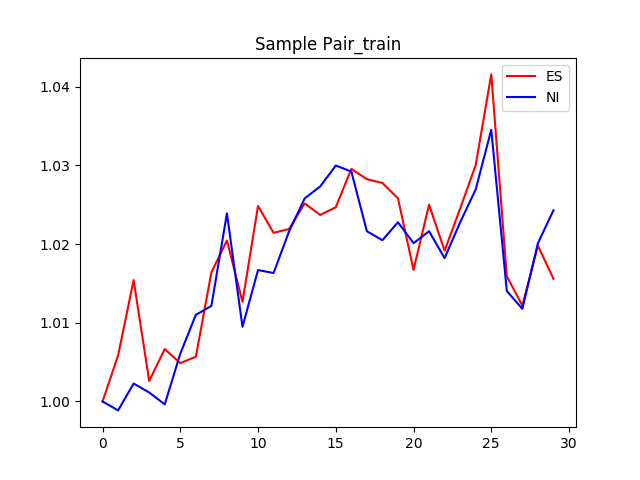
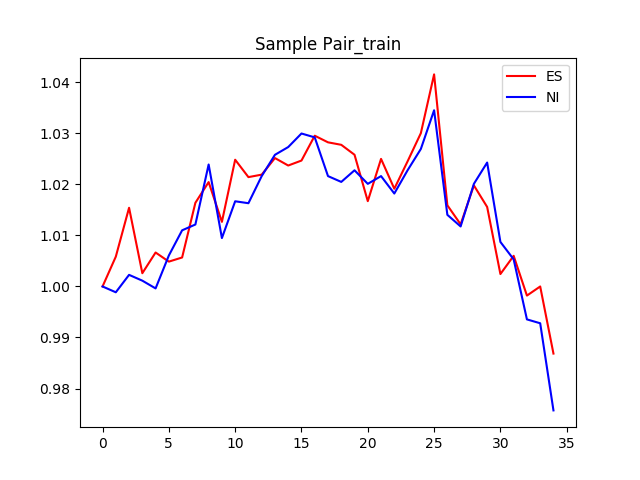
fixed up baseline backtesting, should be accurate now

diff --git a/models/baseline.py b/models/baseline.py
@@ -6,7 +6,7 @@ import matplotlib.pyplot as plt
 
 N = 20
 
-def backtest_baseline(pairs, T): 
+def backtest_baseline(pairs, T, P): 
     in_trade = False
     profit = 0
     trade_start=0
@@ -16,43 +16,47 @@ def backtest_baseline(pairs, T):
         counter+=1
         A = list(T[pair[0]])
         B = list(T[pair[1]]) 
-        spread = np.absolute(np.array(A) - np.array(B))
-        threshold = 2*np.std(spread)
+
+        #calculate threshold based on past data
+        spread = np.absolute(np.array(P[pair[0]]) - np.array(P[pair[1]]))
+        cur_spread = np.absolute(np.array(A) - np.array(B))
+        threshold = np.mean(spread) + 2*np.std(spread)
         i = 0
-        while(i < len(spread)):
-            #enter trade
-            if spread[i] >= threshold: 
+        while(i < len(A)):
+            #if spread is big, enter trade
+            if cur_spread[i] >= threshold: 
                 
-                print("{}-{}, entered trade at {}, spread: {}".format(pair[0], pair[1], i, spread[i]))
+                print("{}-{}, entered trade at {}, spread: {}".format(pair[0], pair[1], i, cur_spread[i]))
                 trade_start = i
                 in_trade = True
 
                 if A[i] > B[i]: 
                     #stay in trade until cross
-                    while(i < len(spread) and A[i] > B[i]): 
+                    while(i < len(A) and A[i] > B[i]): 
                         i+=1
                     i-=1 
-                    if i == len(spread)-1 and A[i] > B[i]: 
+                    if i == len(A)-1 and A[i] > B[i]: 
                         break
                     profit += A[trade_start] - B[trade_start]
                     in_trade = False
 
                 elif B[i] >= A[i]: 
-                    while(i < len(spread) and B[i] > A[i]): 
+                    #stay in trade until cross
+                    while(i < len(A) and B[i] > A[i]): 
                         i+=1 
                     i-=1
-                    if i == len(spread)-1 and B[i] > A[i]: 
+                    if i == len(A)-1 and B[i] > A[i]: 
                         break
                     profit += B[trade_start] - A[trade_start]
                     in_trade = False
                 print("exit: {}".format(i+1))
             i+=1
         
-        #if in trade then we just exit
+        #if in trade then we just exit position and cut losses
         if in_trade: 
             print("loss!")
-            profit += -A[len(spread)-1] + A[trade_start]
-            profit += B[len(spread)-1] - B[trade_start] 
+            profit += -A[len(A)-1] + A[trade_start]
+            profit += B[len(A)-1] - B[trade_start] 
     return profit
 
 
@@ -101,8 +105,8 @@ def normalize_prices(df):
 if __name__ == "__main__": 
     SnP = pandas.read_csv("/Users/borauyumazturk/CS229/borasco/data/SP500_90day_ts.csv")
     SnP = normalize_prices(SnP)
-    test = SnP[30:]
-    SnP = SnP[0:30]
+    test = SnP[35:]
+    SnP = SnP[0:35]
     stocks, scores = similarities(SnP)
     pairs = top_n(scores, N)
     pairs = [(stocks[x[0]], stocks[x[1]], x[2]) for x in pairs]
@@ -110,12 +114,12 @@ if __name__ == "__main__":
     #some info
     for x in pairs: 
         print("{} and {}: {}".format(x[0], x[1], x[2]))
-    pair1 = pairs[6]
+    pair1 = pairs[5]
     plot_ts([SnP[pair1[0]], SnP[pair1[1]]], [pair1[0], pair1[1]], "Sample Pair_train", "sample_pair_train.png")
     plot_ts([test[pair1[0]], test[pair1[1]]], [pair1[0], pair1[1]], "Sample Pair_test", "sample_pair_test.png")
 
 
-    profit = backtest_baseline(pairs, test)
+    profit = backtest_baseline(pairs, test, SnP)
     print(profit)
     
 
